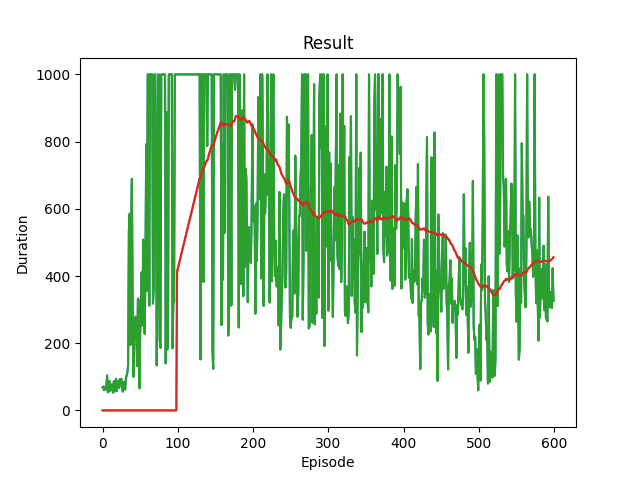
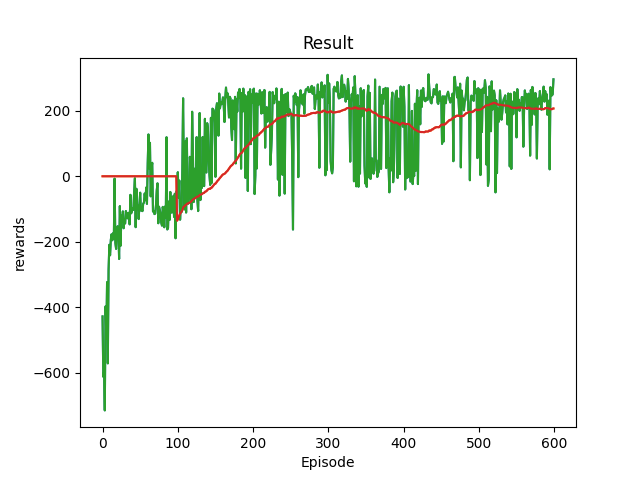
Fixed chart labels for cart pole and started on PolicyGradient

diff --git a/LunarLanderDQN.py b/LunarLanderDQN.py
@@ -24,17 +24,18 @@ device = torch.device("cuda" if torch.cuda.is_available() else "cpu")
 
 
 episode_durations = []
+episode_rewards = []
 
 def plot_durations(show_result=False):
     plt.figure(1)
-    durations_t = torch.tensor(episode_durations, dtype=torch.float)
+    durations_t = torch.tensor(episode_rewards, dtype=torch.float)
     if show_result:
         plt.title('Result')
     else:
         plt.clf()
         plt.title('Training')
     plt.xlabel('Episode')
-    plt.ylabel('Duration')
+    plt.ylabel('rewards')
     plt.plot(durations_t.numpy())
 
     if len(durations_t) >= 100:
@@ -67,6 +68,7 @@ for game in range(games):
     state, info = environment.reset()
     state = torch.tensor(state, dtype=torch.float32, device=device).unsqueeze(0)
     stepsDone = 0
+    current_episode_rewards = 0
     for t in count():
         
         action = a.PickAction(state, stepsDone, environment)
@@ -86,17 +88,39 @@ for game in range(games):
 
         a.optimizeModel()
         a.updateWeights()
-
+        current_episode_rewards += reward
         if finished:
             episode_durations.append(t+1)
+            episode_rewards.append(current_episode_rewards)
             plot_durations()
             break
 
 print("complete") 
 
-#a.PrintAction(old_state)
+#a.PrintValues(old_state)
 plot_durations(show_result=True)
 plt.ioff()
-plt.savefig("./results.png")    
+plt.savefig("./resultsLunarLander5_20_24.png")    
 plt.show()
-   
+
+environment = gym.make('LunarLander-v2', render_mode='human')
+
+for game in range(10):
+    state, info = environment.reset()
+    state = torch.tensor(state, dtype=torch.float32, device=device).unsqueeze(0)
+    stepsDone = 0
+    current_episode_rewards = 0
+    for t in count():
+        
+        action = a.PickAction(state, stepsDone, environment)
+        stepsDone += 1
+        observation, reward, terminated, truncated, info = environment.step(action.item())
+        finished = terminated or truncated
+
+        if terminated:
+            next_state = None
+        else:
+            next_state = torch.tensor(observation, dtype=torch.float32, device=device).unsqueeze(0)
+
+        if finished:
+            break

diff --git a/PolicyGradientAgent.py b/PolicyGradientAgent.py
@@ -1,0 +1,44 @@
+# Code from following tutorial at https://spinningup.openai.com/en/latest/spinningup/rl_intro3.html; 
+# https://github.com/openai/spinningup/blob/master/spinup/examples/pytorch/pg_math/1_simple_pg.py; with 
+# some modifications
+
+import torch
+import torch.nn as nn
+from torch.distributions.categorical import Categorical
+from torch.optim import Adam
+import numpy as np
+import gymnasium
+
+class PoAgent():
+
+    def __init__(self, envName, hiddenSizes = [32] learningRate = 1e-2, epochs = 50, batchSize = 5000):
+        self.env = gymnasium.make(envName)
+        self.obsDim = self.env.observation_space.shape[0]
+        self.numberOfActions = self.env.action_space.n
+        self.policyNetwork = self.CreateNetwork(sizes=[self.obsDim]+[self.numberOfActions]+hiddenSizes)
+        self.Optimizer = Adam(self.policyNetwork.parameters())
+
+    def CreateNetwork(sizes, activation=nn.Tanh, outputActivation = nn.Identity ):
+        layers = []
+        for l in range(len(sizes)-1):
+            #if it's anything other than the last layer, set it to be nn.Tahn. For the last layer set it to be nn.Identity 
+            act = activation if l < len(sizes)-2 else outputActivation
+            layers += [nn.layer(sizes[l], sizes[l+1], act())]
+        return nn.Sequential(*layers)
+    
+    def getPolicy(self,  observation):
+        pNetwork = self.policyNetwork(observation)
+        return Categorical(logits=pNetwork)
+    
+    def getAction(self, observation):
+        return self.getPolicy(observation).sample().item()
+    
+    def computeLoss(self, observation, action, weights):
+        logOfP = self.getPolicy(observation).log_prob(action)
+        return -(logOfP * weights).mean()
+    
+    def trainEpoch():
+        pass
+
+
+

diff --git a/CartPoleDQN.py b/CartPoleDQN.py
@@ -24,17 +24,18 @@ device = torch.device("cuda" if torch.cuda.is_available() else "cpu")
 
 
 episode_durations = []
+episode_rewards = []
 
 def plot_durations(show_result=False):
     plt.figure(1)
-    durations_t = torch.tensor(episode_durations, dtype=torch.float)
+    durations_t = torch.tensor(episode_rewards, dtype=torch.float)
     if show_result:
         plt.title('Result')
     else:
         plt.clf()
         plt.title('Training')
     plt.xlabel('Episode')
-    plt.ylabel('Duration')
+    plt.ylabel('rewards')
     plt.plot(durations_t.numpy())
 
     if len(durations_t) >= 100:
@@ -67,6 +68,8 @@ for game in range(games):
     state, info = environment.reset()
     state = torch.tensor(state, dtype=torch.float32, device=device).unsqueeze(0)
     stepsDone = 0
+    current_episode_rewards = 0
+
     for t in count():
         
         action = a.PickAction(state, stepsDone, environment)
@@ -87,8 +90,11 @@ for game in range(games):
         a.optimizeModel()
         a.updateWeights()
 
+        current_episode_rewards += reward
+
         if finished:
             episode_durations.append(t+1)
+            episode_rewards.append(current_episode_rewards)
             plot_durations()
             break
 
@@ -97,6 +103,6 @@ print("complete")
 #a.PrintAction(old_state)
 plot_durations(show_result=True)
 plt.ioff()
-plt.savefig("./results.png")    
+plt.savefig("./results51324.png")    
 plt.show()
    

diff --git a/CartPoleAgentDQN.Py b/CartPoleAgentDQN.Py
@@ -82,6 +82,9 @@ class Agent():
         #print(self.policy_net(state)[0])
         # print(self.policy_net(state).max(1))
 
+    def PrintValues(self,state):
+        print(self.target_net(state).max(1).values)
+
 
     def optimizeModel(self):
         if len(self.memory) < self.Batch_Size:
